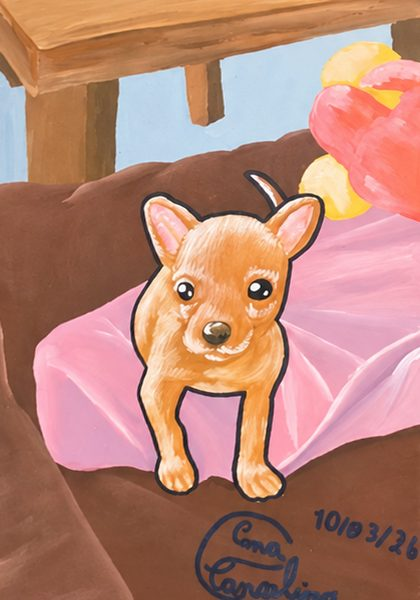
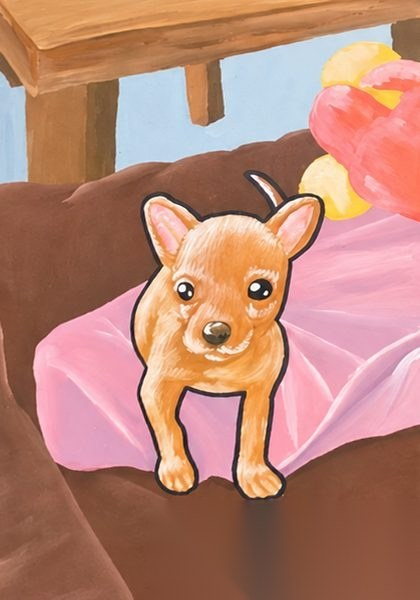
Retira da galeria assinaturas com nomes de alunos e restos de maos, mantendo so as obras

Changed region(s): [[0.4643, 0.81, 0.8048, 1.0], [0.7429, 0.84, 1.0, 0.93]]

diff --git a/index.html b/index.html
@@ -134,11 +134,11 @@
       <!-- TODO: confirmar por escrito a autorização de uso de imagem dos trabalhos exibidos (alunos adultos e menores de idade) e trocar pelos trabalhos finais escolhidos pela Susan -->
       <figure><img src="assets/img/trabalho-01.jpg" alt="Pintura de paisagem com casa branca de telhado colorido, cerca e estrada de terra" width="466" height="318" loading="lazy"></figure>
       <figure><img src="assets/img/trabalho-02.jpg" alt="Pintura de paisagem com cerejeira em flor, rio azul e casas ao fundo" width="693" height="550" loading="lazy"></figure>
-      <figure><img src="assets/img/trabalho-03.jpg" alt="Pintura de um veleiro azul ao pôr do sol, visto de dentro de uma gruta" width="600" height="810" loading="lazy"></figure>
-      <figure><img src="assets/img/trabalho-04.jpg" alt="Pintura de um tucano sobre fundo verde, com um sol amarelo" width="493" height="585" loading="lazy"></figure>
+      <figure><img src="assets/img/trabalho-03.jpg" alt="Pintura de um veleiro azul ao pôr do sol, visto de dentro de uma gruta" width="600" height="750" loading="lazy"></figure>
+      <figure><img src="assets/img/trabalho-04.jpg" alt="Pintura de um tucano sobre fundo verde, com um sol amarelo" width="424" height="585" loading="lazy"></figure>
       <figure><img src="assets/img/trabalho-05.jpg" alt="Pintura de um cachorro caramelo sobre uma cama rosa, com balões ao fundo" width="420" height="600" loading="lazy"></figure>
-      <figure><img src="assets/img/trabalho-06.jpg" alt="Pintura de um girassol grande sobre fundo verde-claro" width="465" height="600" loading="lazy"></figure>
-      <figure><img src="assets/img/trabalho-07.jpg" alt="Pintura de uma arara azul e amarela de perfil, sobre fundo verde" width="375" height="541" loading="lazy"></figure>
+      <figure><img src="assets/img/trabalho-06.jpg" alt="Pintura de um girassol grande sobre fundo verde-claro" width="465" height="575" loading="lazy"></figure>
+      <figure><img src="assets/img/trabalho-07.jpg" alt="Pintura de uma arara azul e amarela de perfil, sobre fundo verde" width="375" height="478" loading="lazy"></figure>
     </div>
   </section>
 
